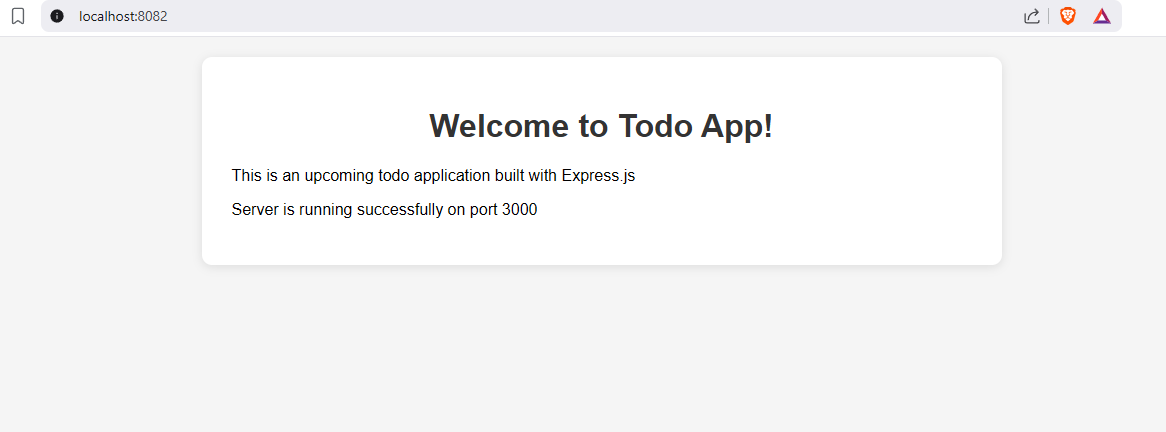
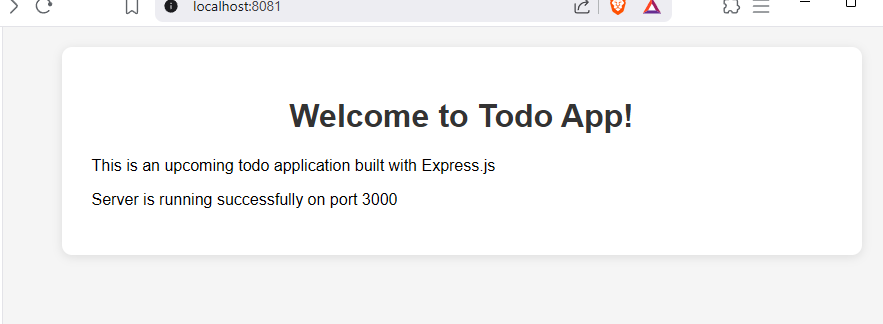
ex 1.8

diff --git a/todo app/readme.md b/todo app/readme.md
@@ -3,14 +3,16 @@
 ### Service Deployment Creation
 
 ```bash
-$  kubectl apply -f service.yaml
+$  kubectl apply -f manifests
 ```
 
 ```yaml
-service/todo-app-svc configured
+deployment.apps/todo-app created
+ingress.networking.k8s.io/todo-app-ingress created
+service/todo-app-svc created
 ```
 
-Successfully running on: http://localhost:8082
+Successfully running on: http://localhost:8081
 ![Application Screenshot](./image.png)
 
 Using This Cluster:
